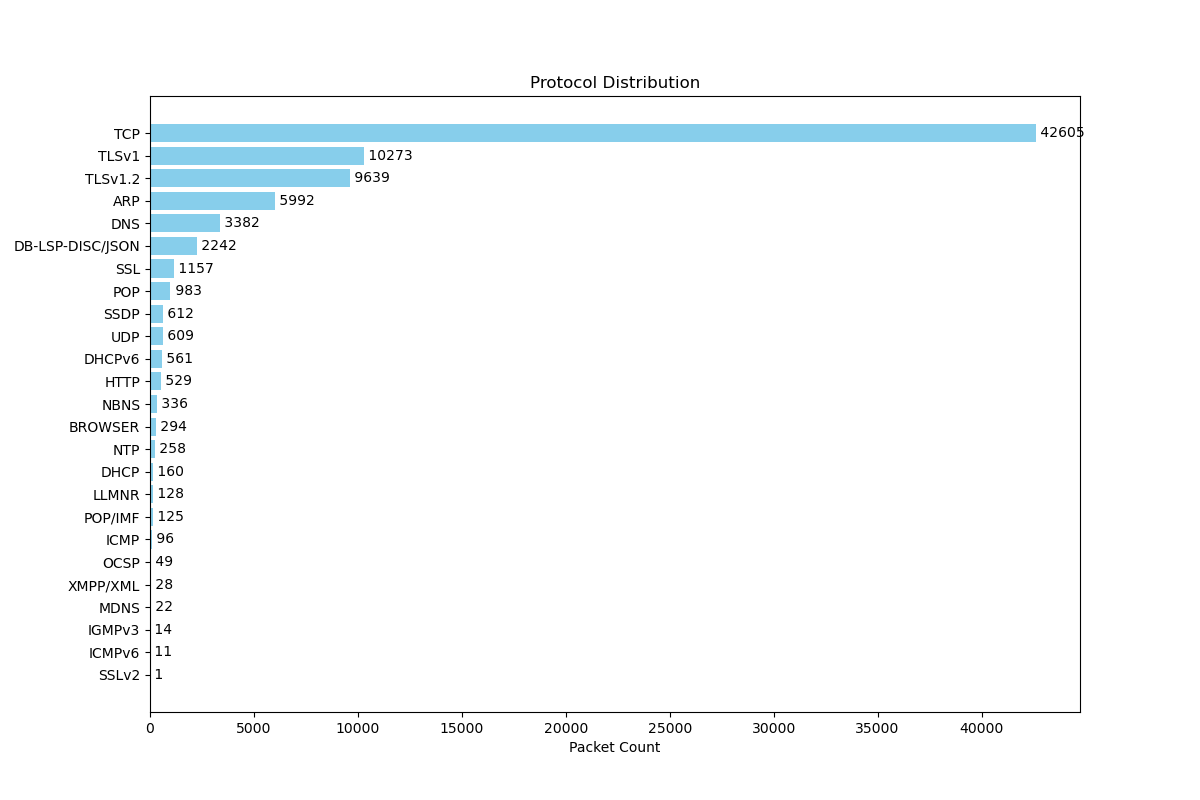
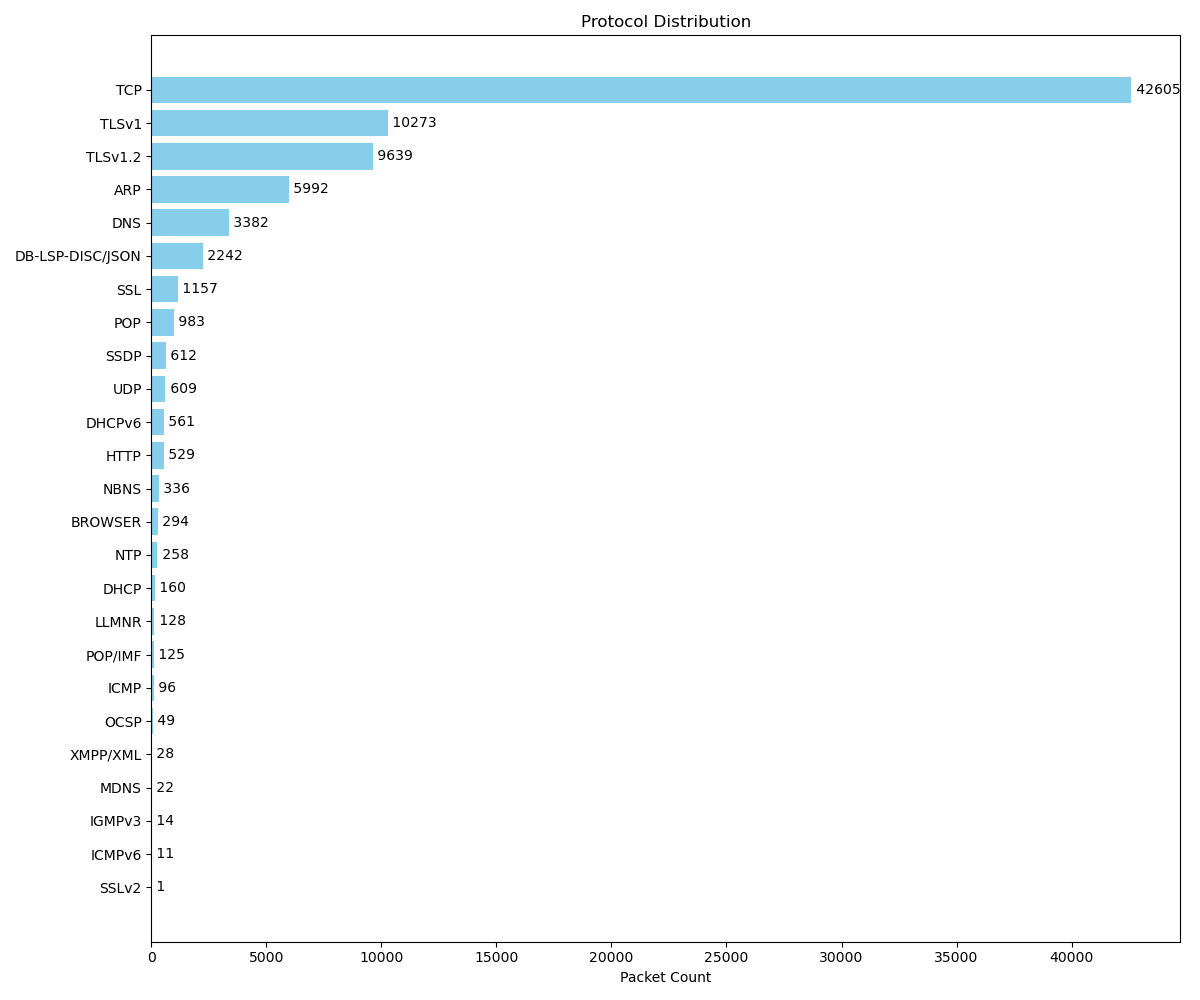
port scan analysis new graph - heatmap by IP

diff --git a/src/graph.py b/src/graph.py
@@ -1,6 +1,8 @@
 import matplotlib.pyplot as plt
 import matplotlib.dates as mdates
+from matplotlib.colors import BoundaryNorm
 import pandas as pd
+import seaborn as sns
 
 
 def plot_protocol_distribution(protocol_counter, save_path):
@@ -8,7 +10,7 @@ def plot_protocol_distribution(protocol_counter, save_path):
     protocols = [item[0] for item in sorted_items]
     counts = [item[1] for item in sorted_items]
 
-    plt.figure(figsize=(12, 8))
+    plt.figure(figsize=(12, 10))
     bars = plt.barh(protocols, counts, color="skyblue")
     plt.xlabel("Packet Count")
     plt.title("Protocol Distribution")
@@ -22,15 +24,15 @@ def plot_protocol_distribution(protocol_counter, save_path):
             " " + str(count),
             va="center",
         )
+    plt.tight_layout()
     plt.savefig(save_path)
 
 
 def plot_port_usage_over_time(df: pd.DataFrame, save_path):
     df["time_bin"] = df["time"].dt.floor("1T")
     unique_counts = df.groupby("time_bin")["port"].nunique().reset_index()
-    print(unique_counts)
 
-    plt.figure(figsize=(12, 8))
+    plt.figure(figsize=(12, 10))
     plt.plot(
         unique_counts["time_bin"],
         unique_counts["port"],
@@ -44,5 +46,31 @@ def plot_port_usage_over_time(df: pd.DataFrame, save_path):
     plt.gca().xaxis.set_major_formatter(mdates.DateFormatter("%H:%M"))
     plt.grid(True, linestyle="--", alpha=0.5)
     plt.tight_layout()
-    plt.show()
+    plt.savefig(save_path)
+
+
+def plot_port_usage_by_ip_addr(df: pd.DataFrame, save_path):
+    top_ips = df["src_ip"].value_counts().nlargest(30).index
+    df2 = df[df["src_ip"].isin(top_ips)].copy()
+
+    n = 2000
+    df2["port_range"] = (df2["port"] // n) * n
+    df2["port_range_label"] = (
+        df2["port_range"].astype(str) + "-" + (df2["port_range"] + n - 1).astype(str)
+    )
+
+    pivot_df = df2.groupby(["src_ip", "port_range_label"]).size().unstack(fill_value=0)
+    pivot_df = pivot_df[
+        sorted(pivot_df.columns, key=lambda x: int(str(x).split("-")[0]))
+    ]
+    bounds = [0, 1, 10, 100, 1000, pivot_df.to_numpy().max()]
+    norm = BoundaryNorm(bounds, ncolors=256)
+
+    plt.figure(figsize=(12, 10))
+    sns.heatmap(pivot_df, cmap="Blues", linewidths=0.5, norm=norm)
+
+    plt.title("Unique Port Range Contacted per IP-address")
+    plt.xlabel("Destination Port")
+    plt.ylabel("Source IP")
+    plt.tight_layout()
     plt.savefig(save_path)

diff --git a/src/main.py b/src/main.py
@@ -1,7 +1,5 @@
 import analyser
 import graph
-from pathlib import Path
-import time
 
 
 def analyse_example_pcap_file(logname: str):
@@ -14,6 +12,9 @@ def analyse_example_pcap_file(logname: str):
     A2 = "port_usage_over_time"
     port_usage = analyser.compute_port_usage(LOGPATH)
     graph.plot_port_usage_over_time(port_usage, f"report/{logname}_{A2}.png")
+
+    A3 = "port_usage_by_ip_addr"
+    graph.plot_port_usage_by_ip_addr(port_usage, f"report/{logname}_{A3}.png")
 
 
 if __name__ == "__main__":
